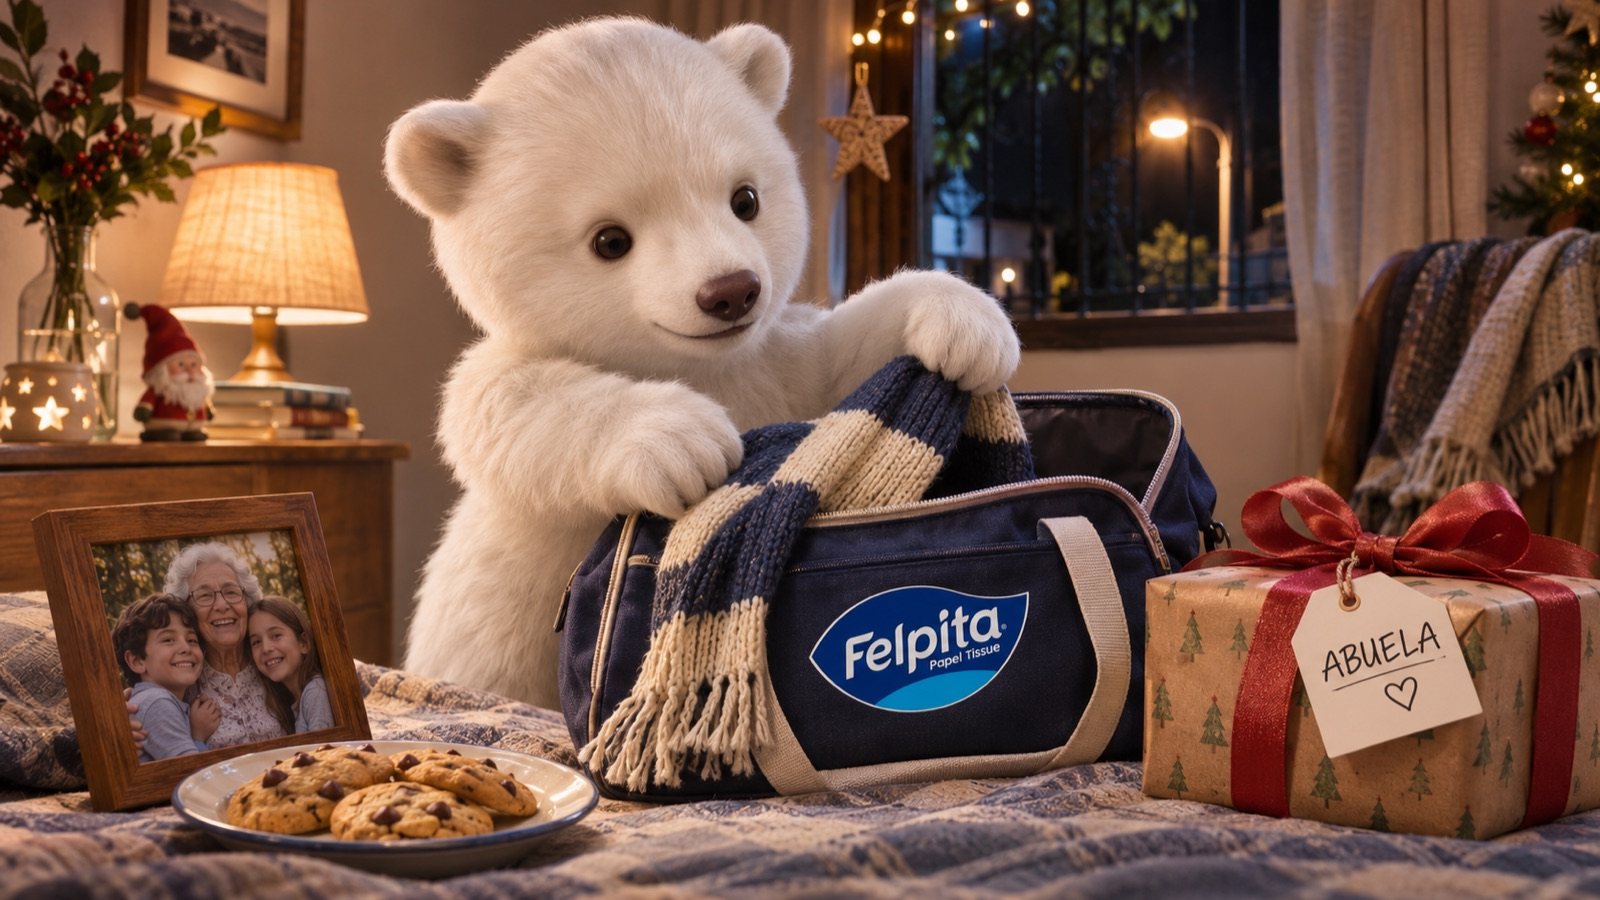
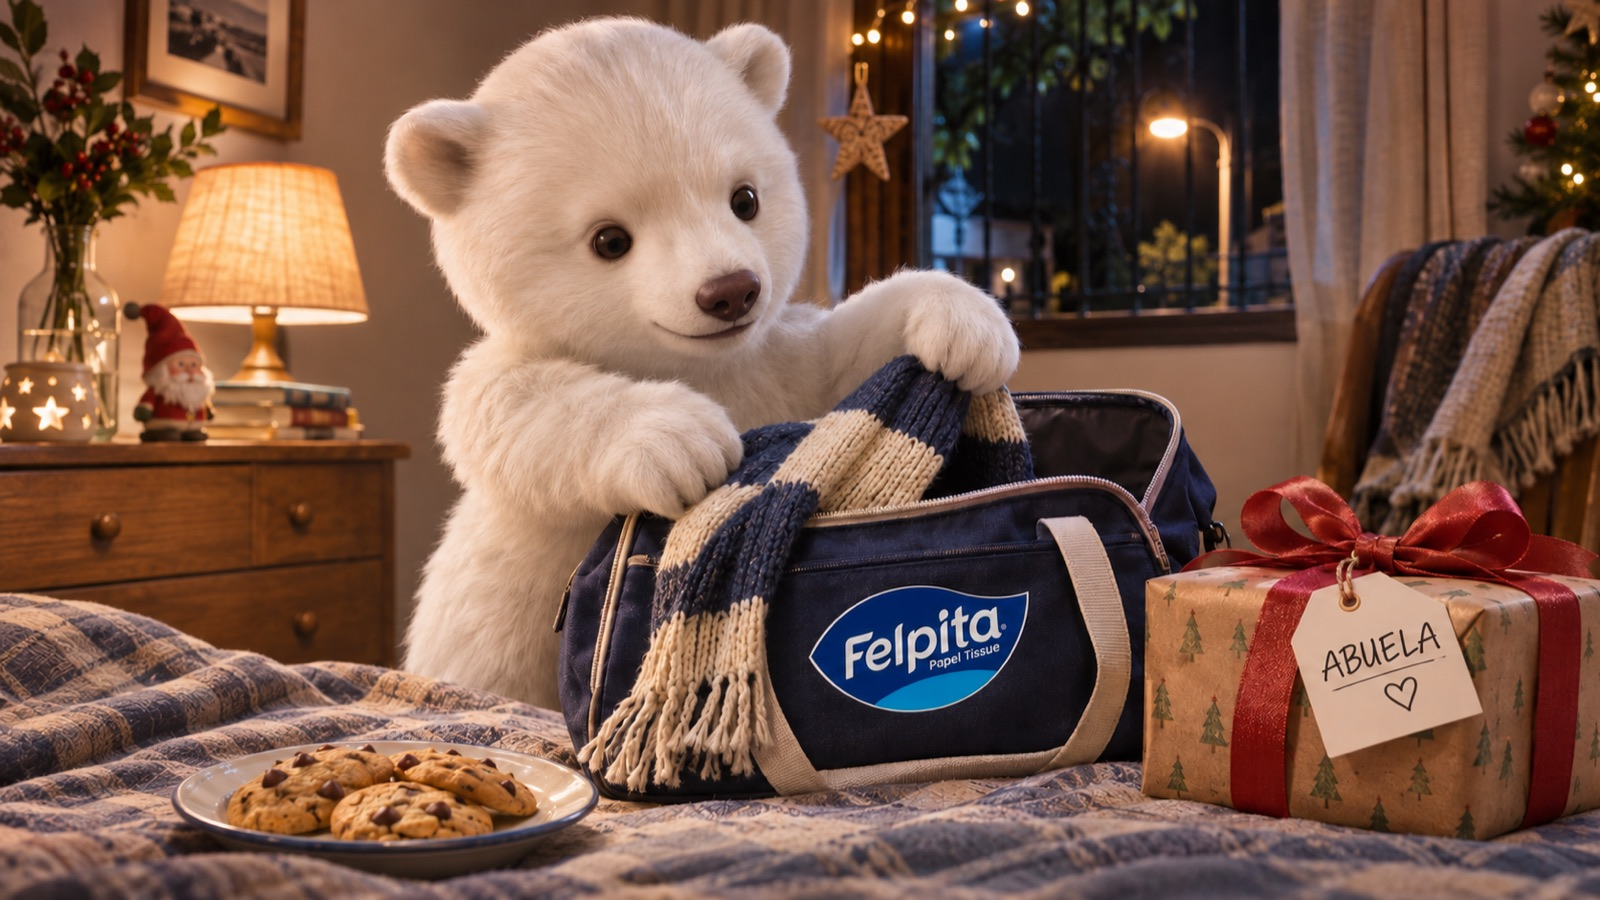
Frame 01 sin portarretratos

diff --git a/fuente.html b/fuente.html
@@ -265,11 +265,11 @@ footer{border-top:1px solid var(--line);padding-block:28px 48px;color:var(--mute
 
     <div class="frames" id="frames">
       <article class="frame">
-        <div class="shot" style="--fx:.45"><img src="img/kf-01.jpg" alt="Felpita guarda la bufanda en el bolso, con galletitas, una foto familiar y el regalo para la abuela"><div class="crop"><span>9:16</span></div></div>
+        <div class="shot" style="--fx:.45"><img src="img/kf-01.jpg" alt="Felpita guarda la bufanda en el bolso, con galletitas y el regalo para la abuela"><div class="crop"><span>9:16</span></div></div>
         <div class="meta">
           <div class="meta-top"><span class="num">01</span><h3>Preparativos</h3><span class="tc">0:00–0:07</span></div>
-          <p>En su casa de barrio, Felpita guarda en el bolso la bufanda, las galletitas, la foto y el regalo para la abuela. Presentamos al personaje, su hogar y la intención del viaje.</p>
-          <div class="beats"><span>bufanda</span><span>galletitas</span><span>foto</span><span>regalo «ABUELA»</span></div>
+          <p>En su casa de barrio, Felpita guarda en el bolso la bufanda, las galletitas y el regalo para la abuela. Presentamos al personaje, su hogar y la intención del viaje.</p>
+          <div class="beats"><span>bufanda</span><span>galletitas</span><span>regalo «ABUELA»</span></div>
         </div>
       </article>
 

diff --git a/index.html b/index.html
@@ -274,11 +274,11 @@ footer{border-top:1px solid var(--line);padding-block:28px 48px;color:var(--mute
 
     <div class="frames" id="frames">
       <article class="frame">
-        <div class="shot" style="--fx:.45"><img src="img/kf-01.jpg" alt="Felpita guarda la bufanda en el bolso, con galletitas, una foto familiar y el regalo para la abuela"><div class="crop"><span>9:16</span></div></div>
+        <div class="shot" style="--fx:.45"><img src="img/kf-01.jpg" alt="Felpita guarda la bufanda en el bolso, con galletitas y el regalo para la abuela"><div class="crop"><span>9:16</span></div></div>
         <div class="meta">
           <div class="meta-top"><span class="num">01</span><h3>Preparativos</h3><span class="tc">0:00–0:07</span></div>
-          <p>En su casa de barrio, Felpita guarda en el bolso la bufanda, las galletitas, la foto y el regalo para la abuela. Presentamos al personaje, su hogar y la intención del viaje.</p>
-          <div class="beats"><span>bufanda</span><span>galletitas</span><span>foto</span><span>regalo «ABUELA»</span></div>
+          <p>En su casa de barrio, Felpita guarda en el bolso la bufanda, las galletitas y el regalo para la abuela. Presentamos al personaje, su hogar y la intención del viaje.</p>
+          <div class="beats"><span>bufanda</span><span>galletitas</span><span>regalo «ABUELA»</span></div>
         </div>
       </article>
 
